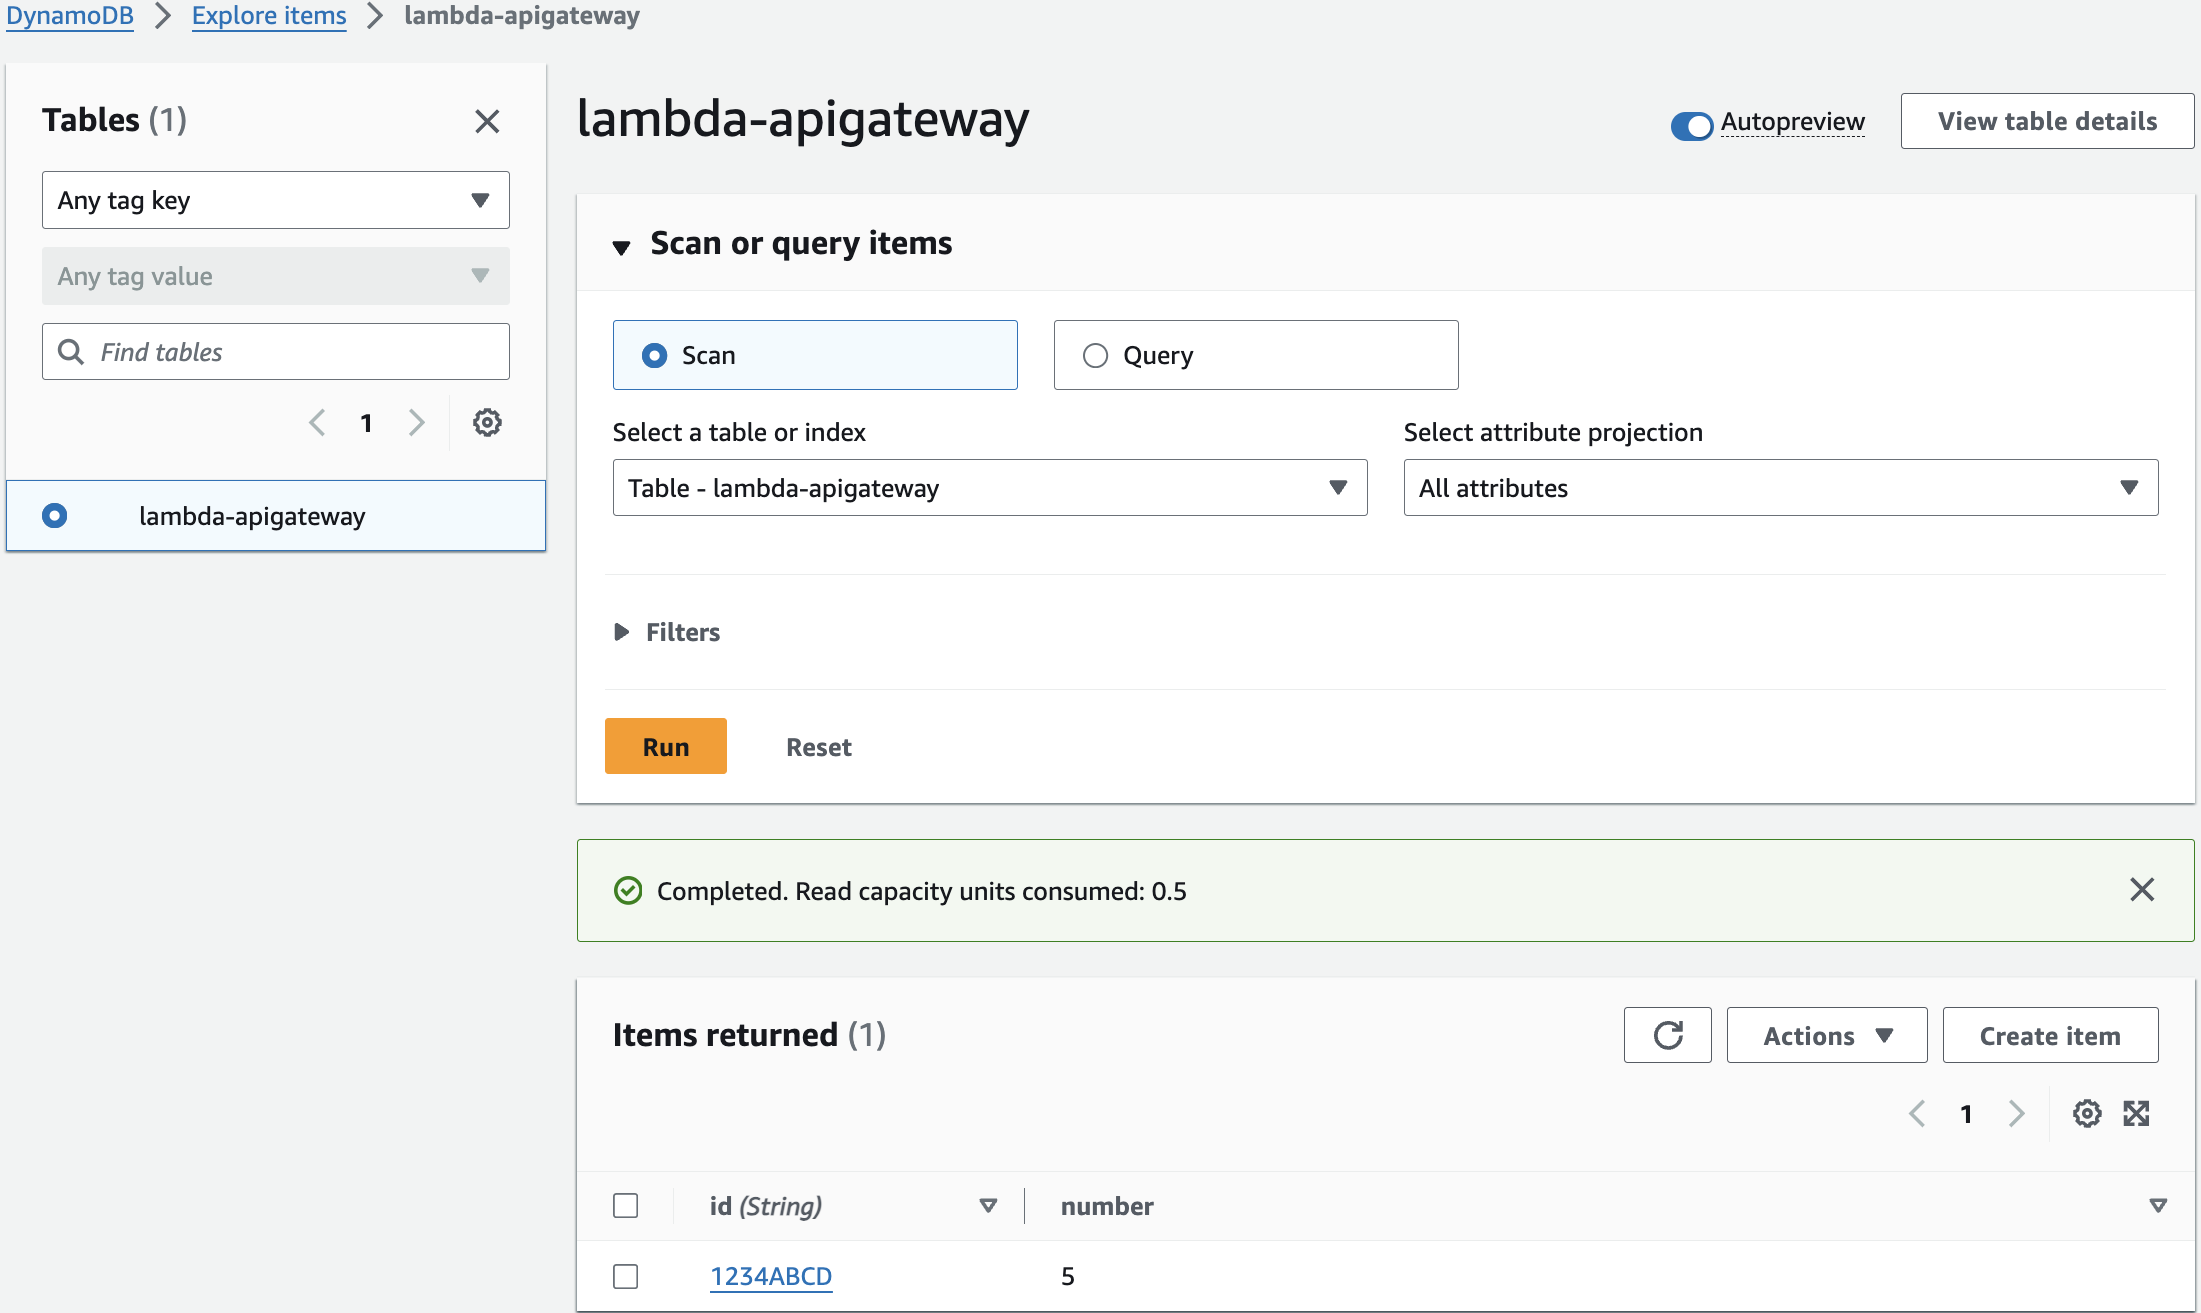
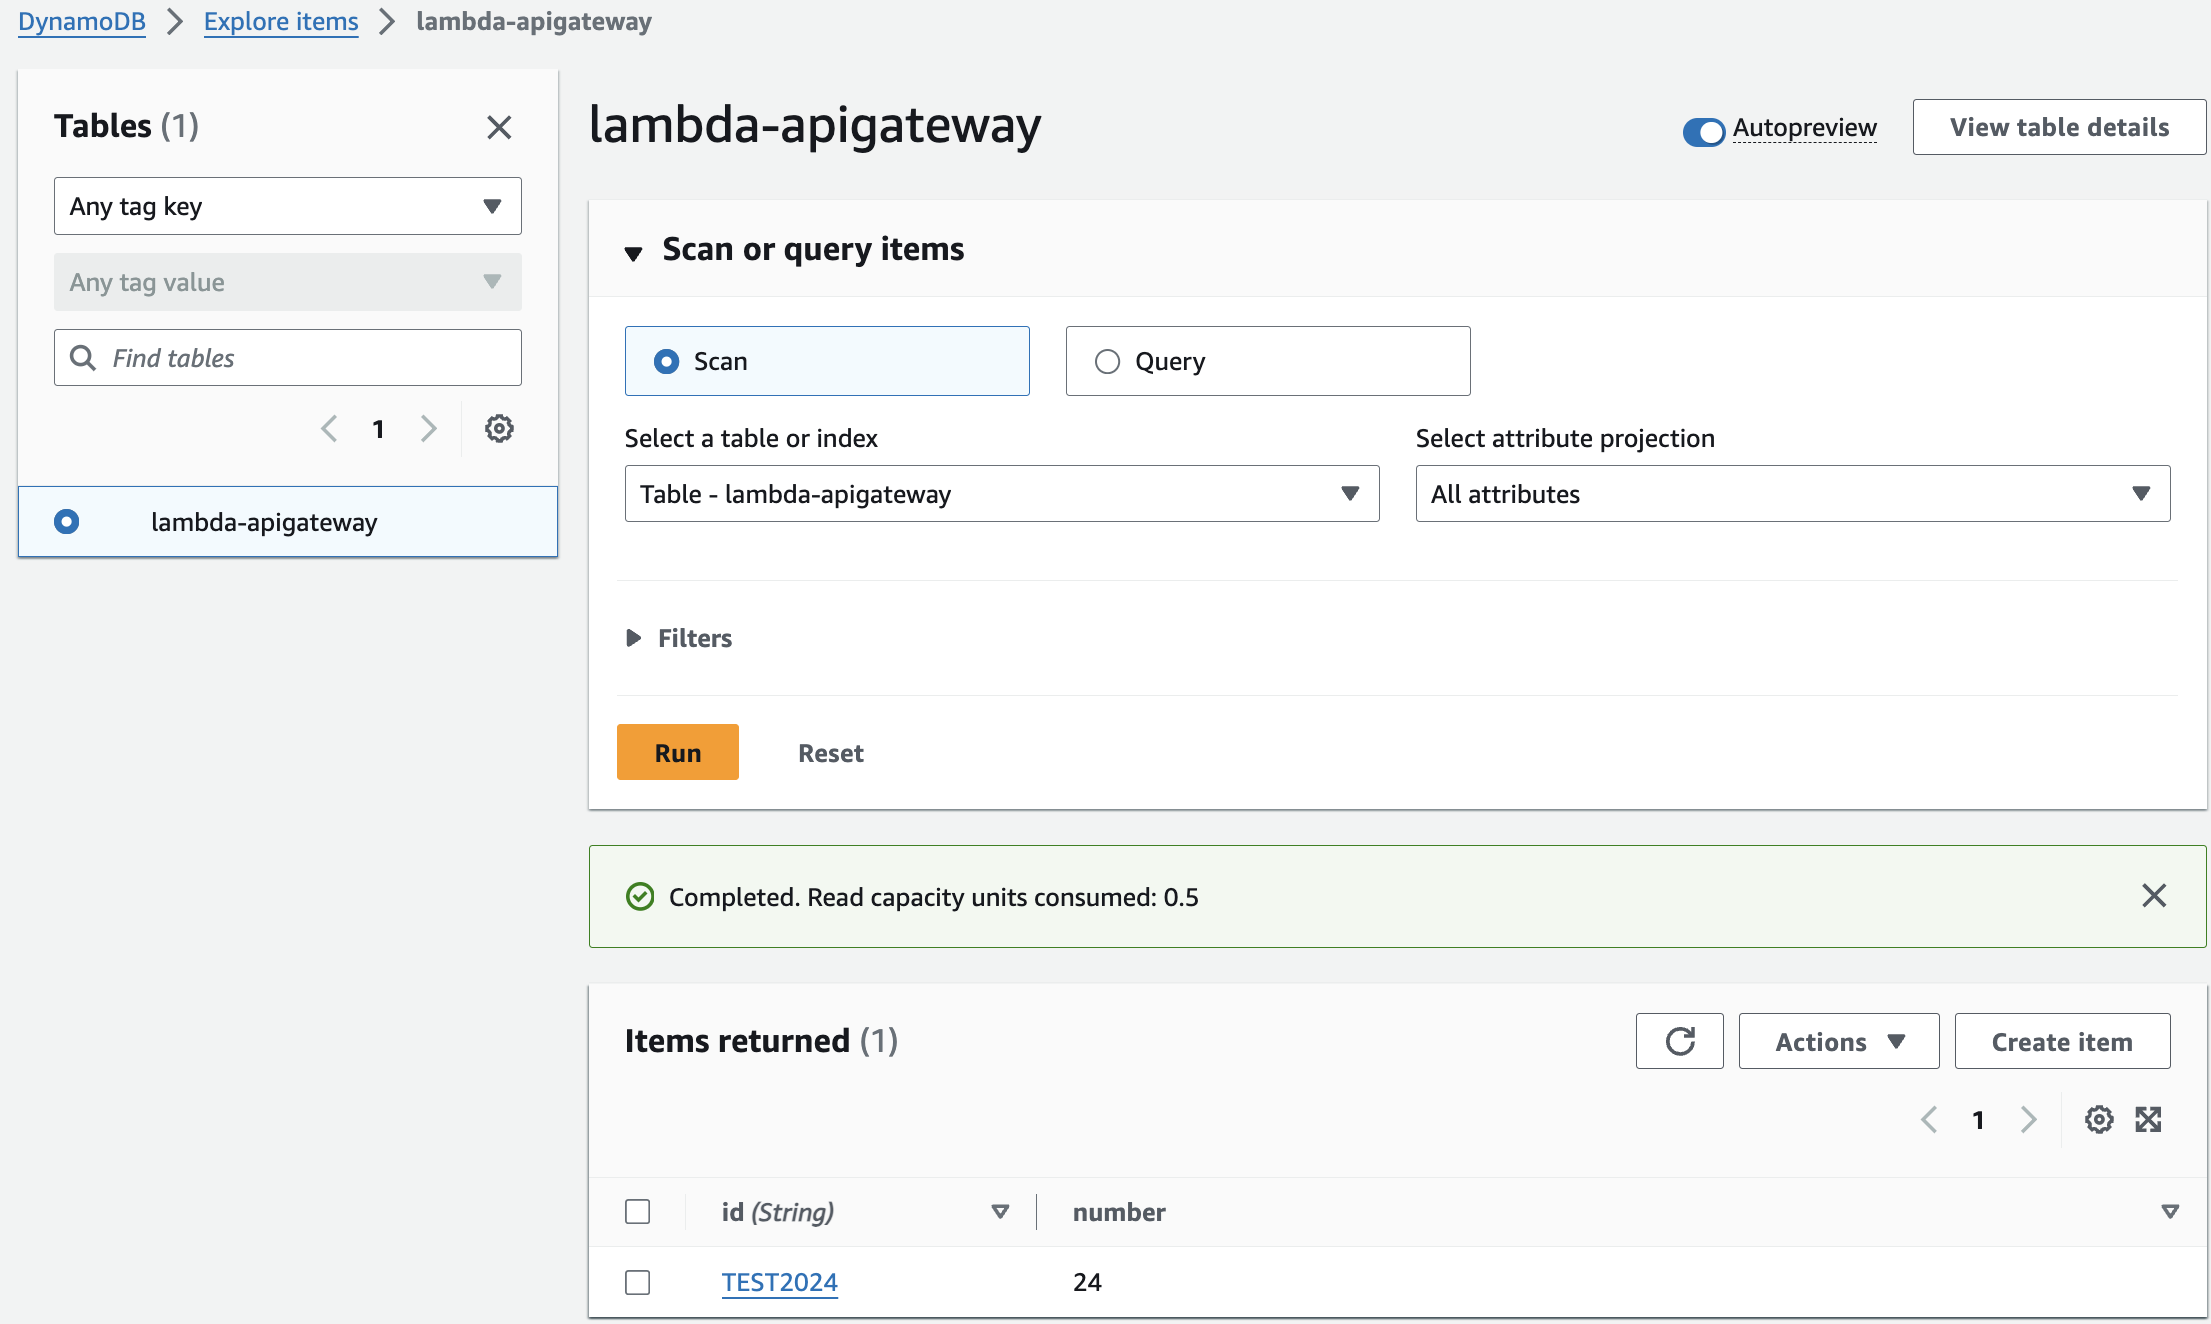
ReadME update

diff --git a/README.md b/README.md
@@ -234,8 +234,8 @@ Now that our Lambda function is ready, we can use the **create** operation to ad
     "tableName": "lambda-apigateway",
     "payload": {
         "Item": {
-            "id": "1234ABCD",
-            "number": 5
+            "id": "TEST2024",
+            "number": 24
         }
     }
 }
@@ -251,7 +251,7 @@ To test the API locally with Postman (download it if you don’t have it):
 3. In the Body tab, select raw and choose JSON from the dropdown.
 4. Paste the above JSON request in the body and click Send.
 
-![Create Postman](img/postman-create.png)
+![Create Postman](img/postman-setup.png)
 
 If everything is set up correctly, you should get a response with HTTP Status Code 200, confirming that the item was created successfully.
 
